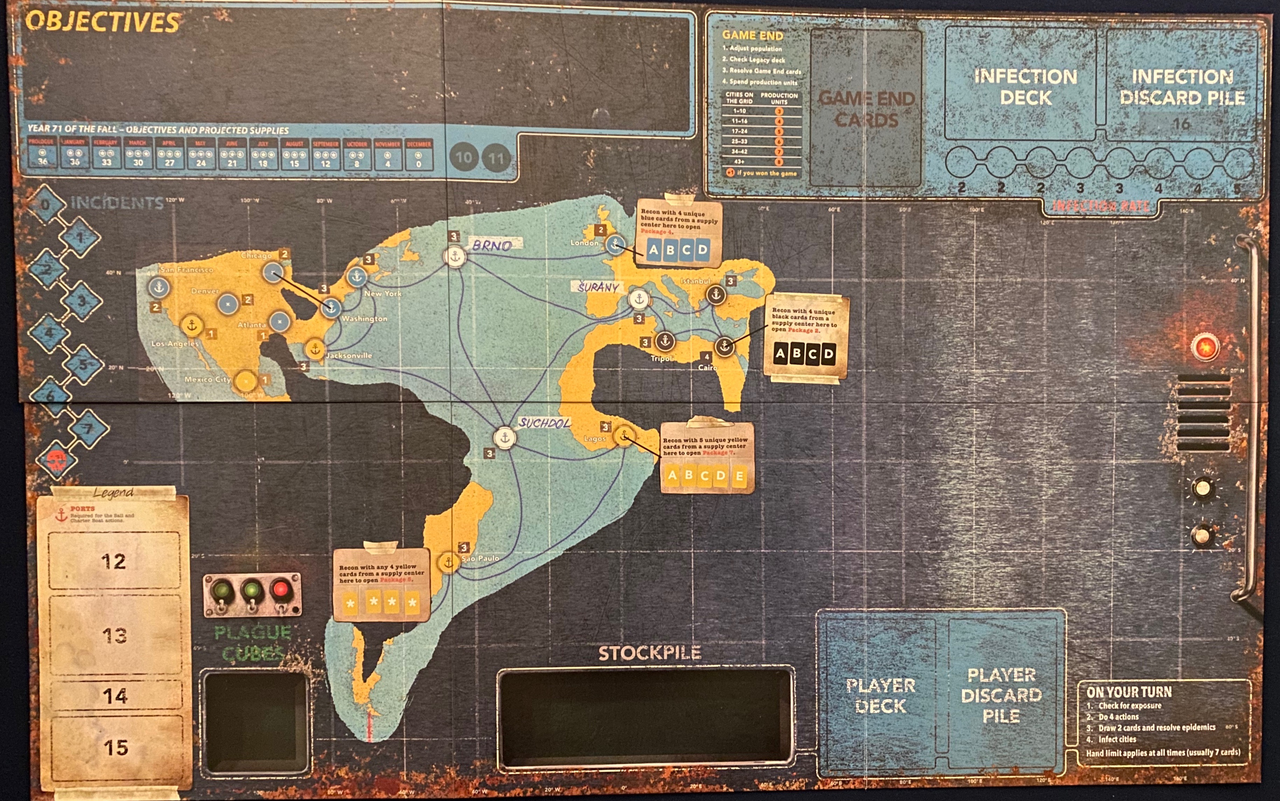
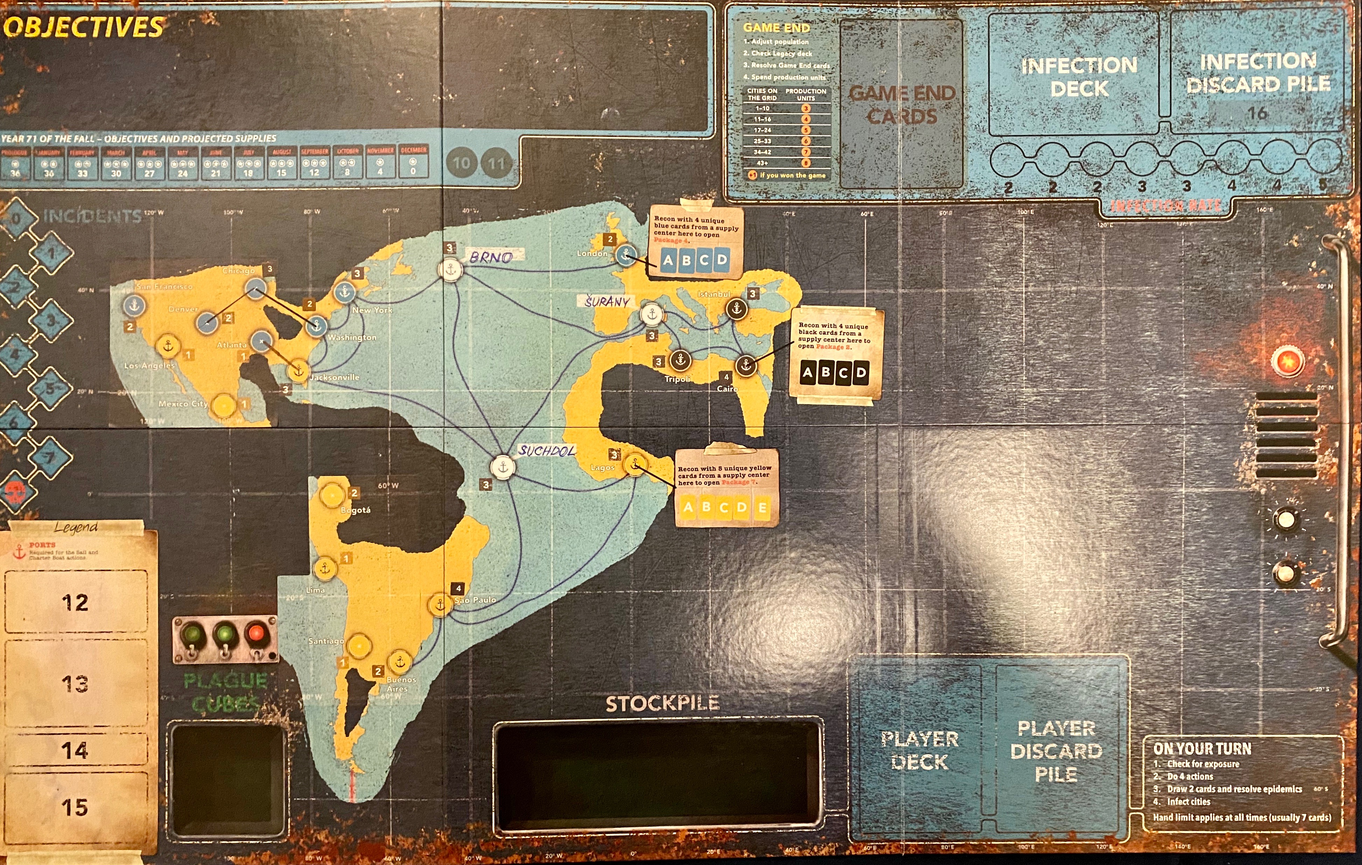
february

diff --git a/pandemic_pic/journal_entries.html b/pandemic_pic/journal_entries.html
@@ -13,7 +13,12 @@
 </div>
 
 <div>
-  <img src="journal_entries/01-02.jpeg" alt="00-01a" width="1000">
+  <img src="journal_entries/01-02.jpeg" alt="01-02" width="1000">
+</div>
+
+<div>
+  <img src="journal_entries/02-02a.jpeg" alt="02-02a" width="500">
+  <img src="journal_entries/02-02b.jpeg" alt="02-02b" width="500">
 </div>
 
 </body>

diff --git a/pandemic.html b/pandemic.html
@@ -31,5 +31,15 @@
     <li>Update Kalendár</li>
     <li>Update pravidiel, str. 12</li>
     <li>Update akcií</li>
+  </ul>
+
+<h2>Zmeny 2</h2>
+  <ul>
+      <li>Update team</li>
+      <li>Game updates</li>
+      <li>New board</li>
+      <li>Journal entries</li>
+      <li>Calendar</li>
+  </ul>
   </body>
 </html>

diff --git a/pandemic_pic/game_updates.html b/pandemic_pic/game_updates.html
@@ -17,5 +17,10 @@
     <img src="players/team.jpeg" alt="team" width="500">
     <img src="players/scars1.jpeg" alt="scars1" width="500">
 </div>
+
+<div>
+  <img src="players/game_update1.jpeg" alt="team" width="1000">
+</div>
+
   </body>
 </html>
